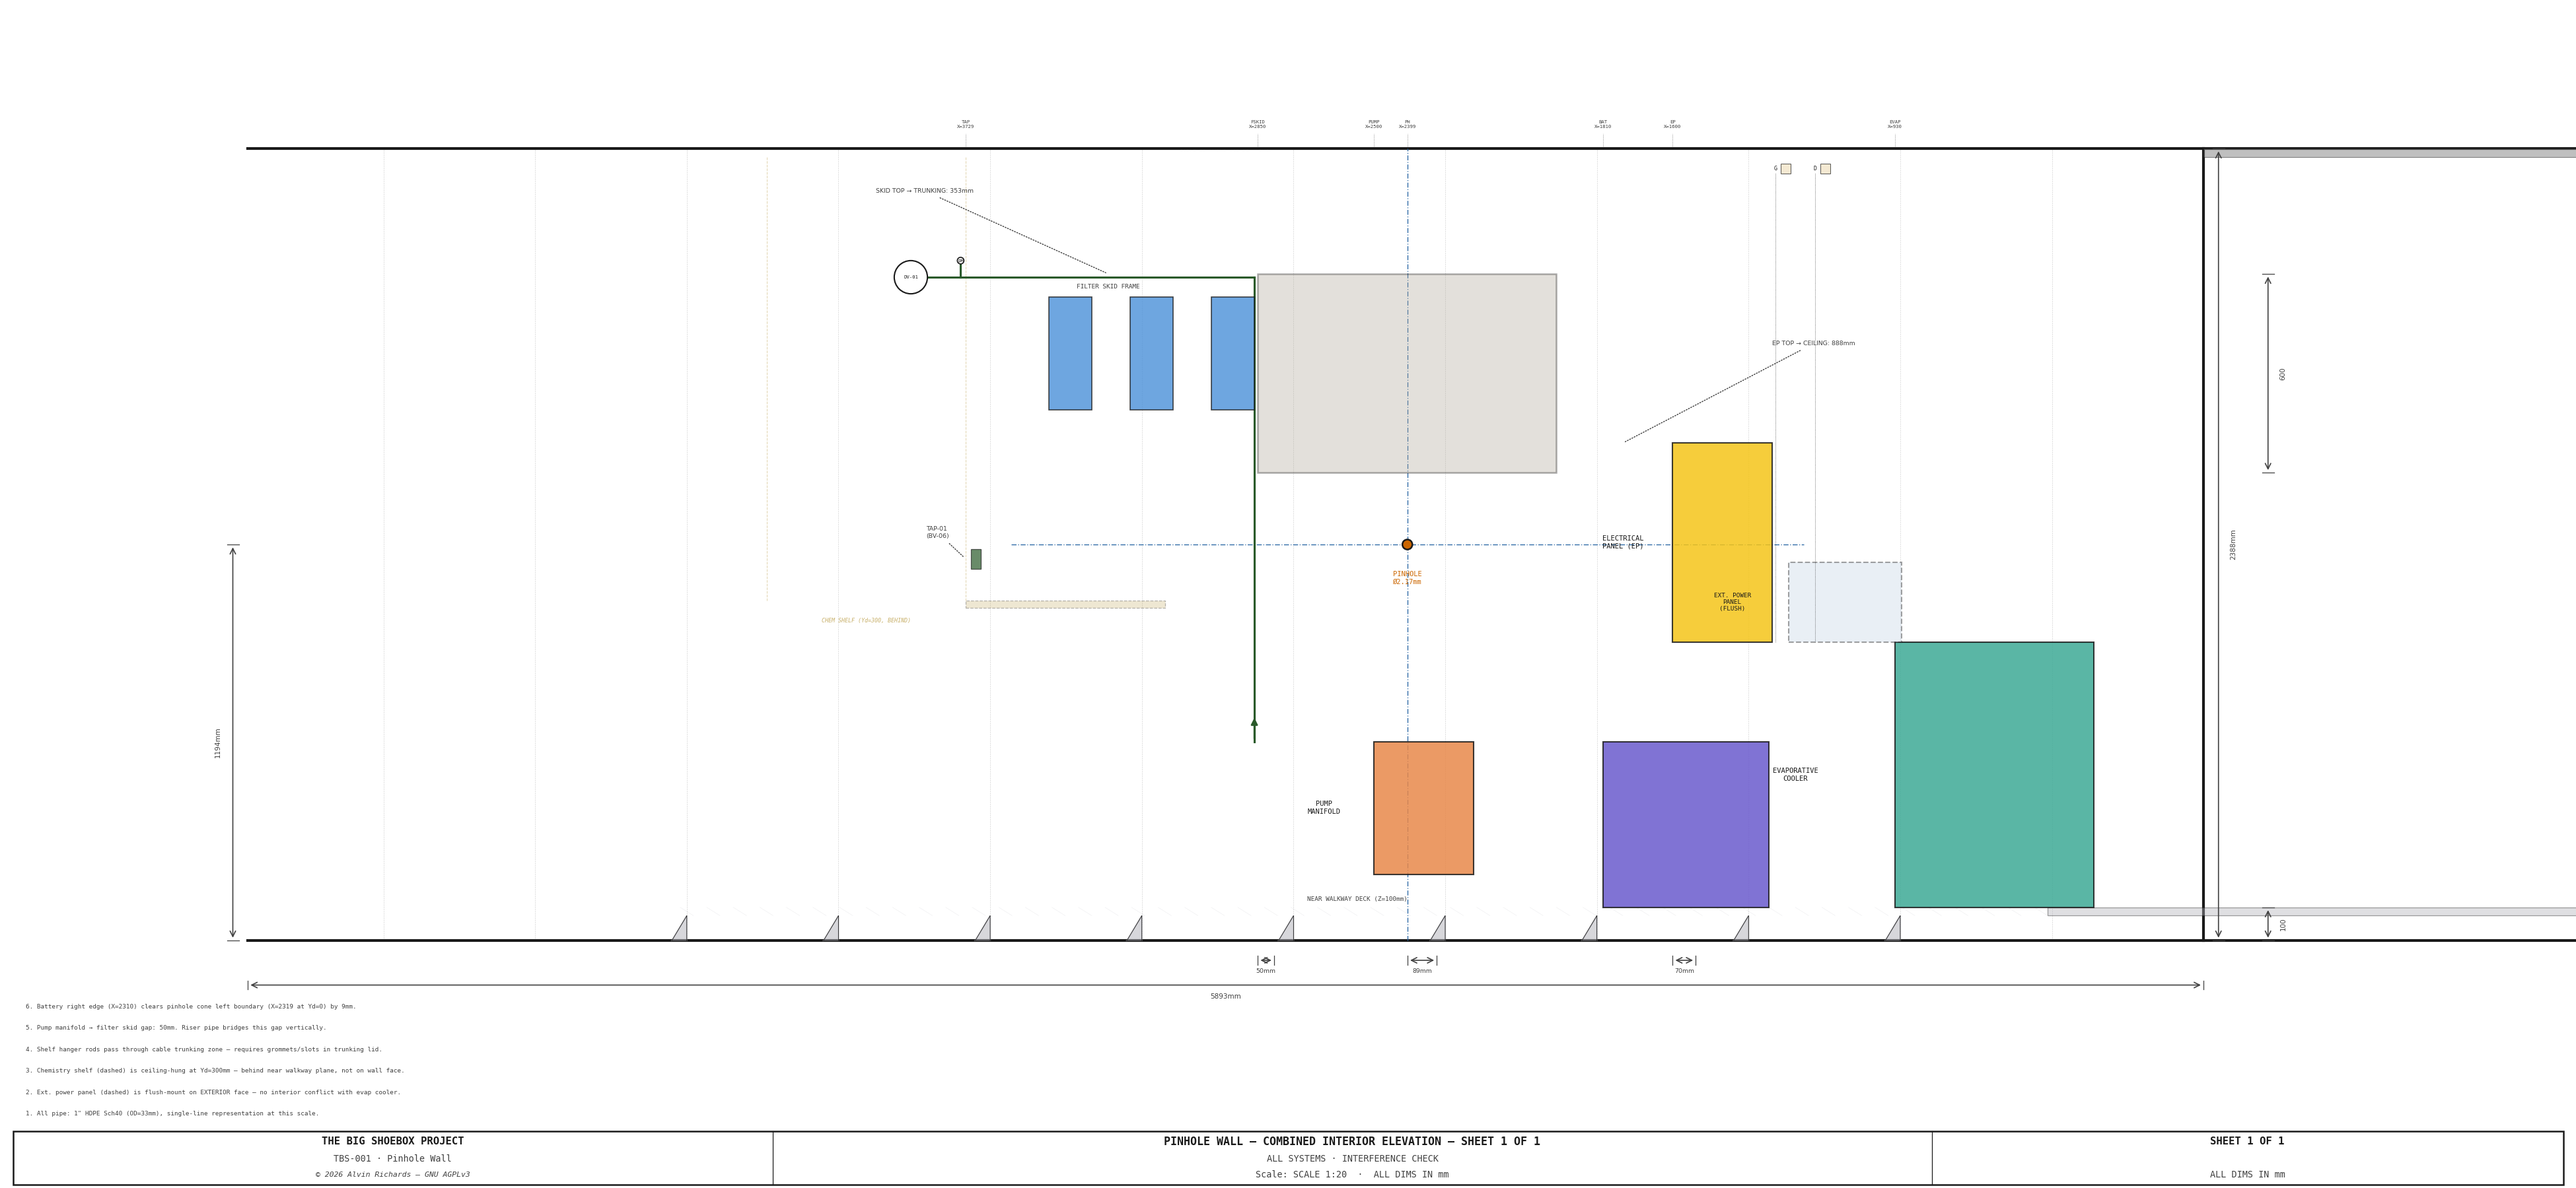
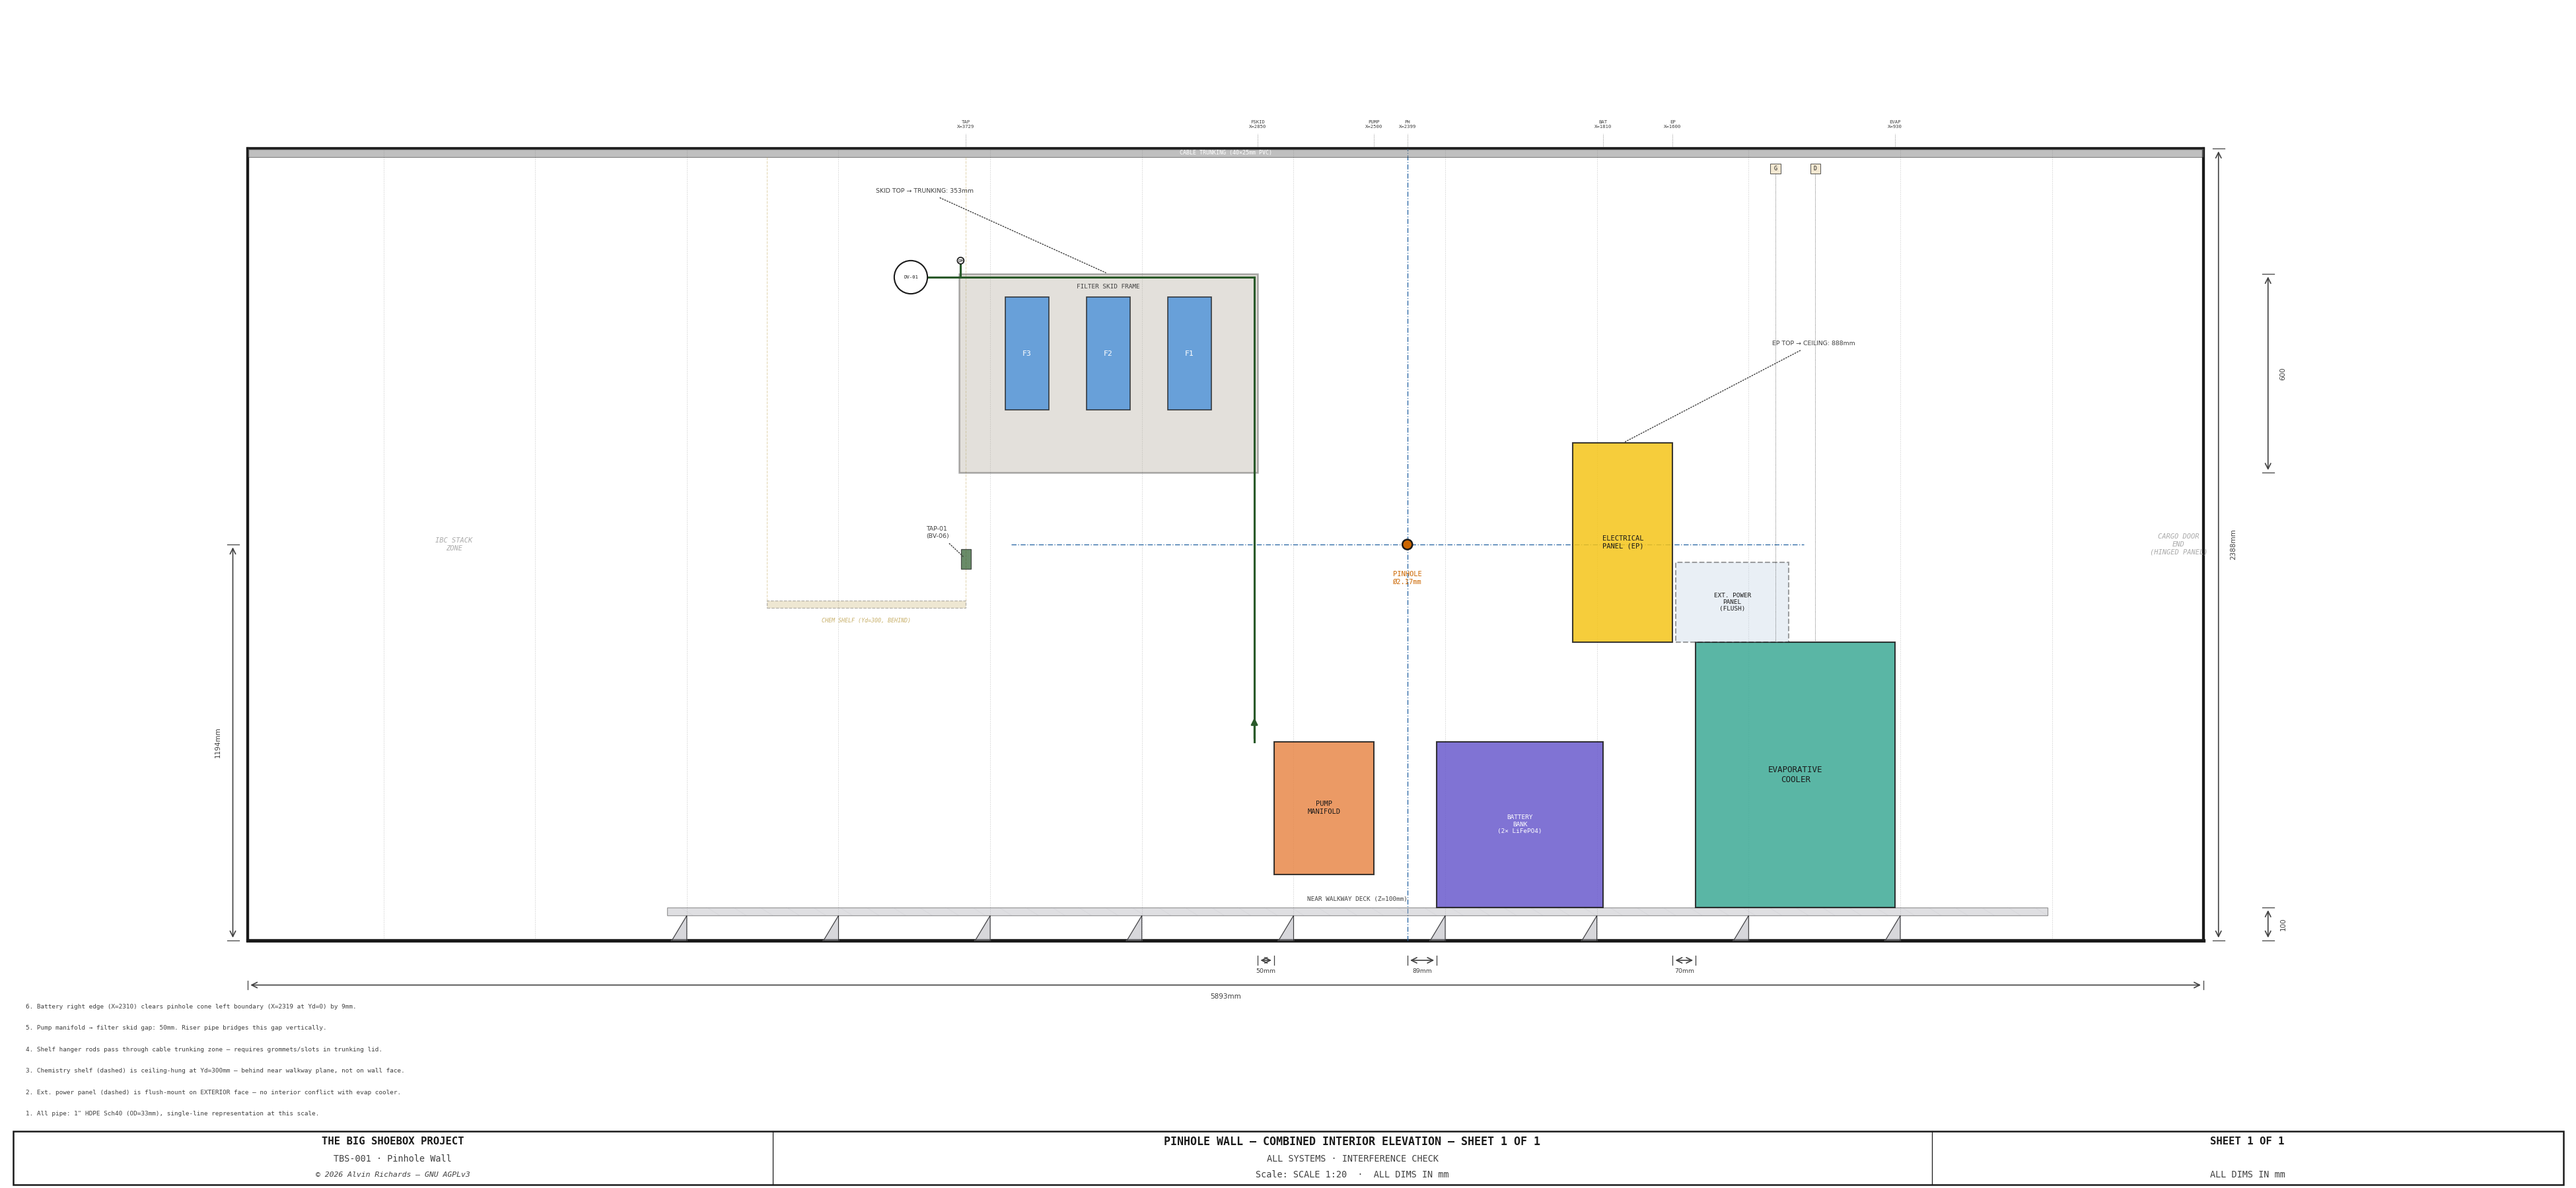
Fix container outline rendering and add zone labels
Container floor/ceiling/walls now draw correctly with mirrored X
axis. Equipment blocks use correct drawing-space coordinates.
Empty zones labeled: cargo door end (right) and IBC stack (left).
Evaporative cooler label increased for readability.

Changed region(s): [[0.2482, 0.2178, 1.0, 0.7778], [0.0931, 0.1244, 1.0, 0.1556], [0.3103, 0.4667, 0.4654, 0.5289]]

diff --git a/generate_pinhole_wall_elevation.py b/generate_pinhole_wall_elevation.py
@@ -40,6 +40,7 @@ from tbs_constants import (
     C_OUT, C_CL, C_DIM,
     C_ALUM, C_STEEL, C_EVAP, C_ELEC, C_BATT, C_PUMP,
     C_PINHOLE_EQ, C_WALL,
+    ZONE_R_START,
     DIAGRAMS_DIR,
 )
 from tbs_drawing import draw_dim_h, draw_dim_v, leader, draw_cl
@@ -110,8 +111,11 @@ def equip_block(x_mm, z_mm, w_mm, h_mm, label, fc, *,
                 ec=C_OUT, lw=1.0, zorder=5, ls="-", alpha=0.85,
                 label_fs=5.5, label_color=C_OUT):
     """Draw a filled rectangle with centered label."""
+    # sx() is mirrored, so sx(x_mm + w_mm) < sx(x_mm) — use the left corner
+    x_draw = sx(x_mm + w_mm)
+    w_draw = sx(x_mm) - sx(x_mm + w_mm)  # positive width in drawing space
     rect = mpatches.FancyBboxPatch(
-        (sx(x_mm), sz(z_mm)), w_mm * S, h_mm * S,
+        (x_draw, sz(z_mm)), w_draw, h_mm * S,
         boxstyle="square,pad=0", facecolor=fc, edgecolor=ec,
         linewidth=lw, linestyle=ls, alpha=alpha, zorder=zorder)
     ax.add_patch(rect)
@@ -125,15 +129,22 @@ def equip_block(x_mm, z_mm, w_mm, h_mm, label, fc, *,
 # ═══════════════════════════════════════════════════════════════════════════
 # 1. CONTAINER OUTLINE
 # ═══════════════════════════════════════════════════════════════════════════
-# Outer rectangle
+# Outer rectangle — sx() is mirrored, so sx(C_LEN) < sx(0)
+wall_left = sx(C_LEN)   # left edge of container in drawing space
+wall_right = sx(0)       # right edge
+wall_w = wall_right - wall_left
 ax.add_patch(mpatches.Rectangle(
-    (sx(0), sz(0)), C_LEN * S, C_HGT * S,
+    (wall_left, sz(0)), wall_w, C_HGT * S,
     facecolor="white", edgecolor=C_OUT, linewidth=2.0, zorder=1))
 
 # Floor line (thicker)
-ax.plot([sx(0), sx(C_LEN)], [sz(0), sz(0)], color=C_OUT, lw=2.0, zorder=2)
+ax.plot([wall_left, wall_right], [sz(0), sz(0)], color=C_OUT, lw=2.5, zorder=2)
 # Ceiling line
-ax.plot([sx(0), sx(C_LEN)], [sz(C_HGT), sz(C_HGT)], color=C_OUT, lw=2.0, zorder=2)
+ax.plot([wall_left, wall_right], [sz(C_HGT), sz(C_HGT)], color=C_OUT, lw=2.0, zorder=2)
+# Left wall line
+ax.plot([wall_left, wall_left], [sz(0), sz(C_HGT)], color=C_OUT, lw=2.0, zorder=2)
+# Right wall line
+ax.plot([wall_right, wall_right], [sz(0), sz(C_HGT)], color=C_OUT, lw=2.0, zorder=2)
 
 # ── Corrugation ribs (faint vertical dashed lines) ─────────────────────────
 rib_x = CONTAINER_RIB_SPACING
@@ -181,13 +192,24 @@ while bx <= WK_X_R:
                 color=C_OUT, lw=0.4, zorder=3)
     bx += CONTAINER_RIB_SPACING
 
+# ── Zone labels for empty areas ───────────────────────────────────────────
+# Left end zone (X=0–150mm, cargo door / hinged panel)
+ax.text(sx(75), sz(C_HGT / 2), "CARGO DOOR\nEND\n(HINGED PANEL)",
+        ha="center", va="center", fontsize=5, color="#AAAAAA",
+        style="italic", zorder=2, **FONT)
+
+# Right end zone (X=4649–5893mm, IBC stack)
+ax.text(sx(ZONE_R_START + (C_LEN - ZONE_R_START) / 2), sz(C_HGT / 2),
+        "IBC STACK\nZONE", ha="center", va="center",
+        fontsize=5, color="#AAAAAA", style="italic", zorder=2, **FONT)
+
 # ═══════════════════════════════════════════════════════════════════════════
 # 4. EQUIPMENT BLOCKS
 # ═══════════════════════════════════════════════════════════════════════════
 
 # ── Evaporative cooler ──────────────────────────────────────────────────────
 equip_block(EVAP_X, RAIL_OFF, EVAP_W, EVAP_H,
-            "EVAPORATIVE\nCOOLER", C_EVAP, label_fs=5)
+            "EVAPORATIVE\nCOOLER", C_EVAP, label_fs=6)
 
 # ── External power panel (flush-mount, exterior — dashed outline) ──────────
 equip_block(PWR_PANEL_X, PWR_Z_LO, PWR_PANEL_W, PWR_PANEL_H,
